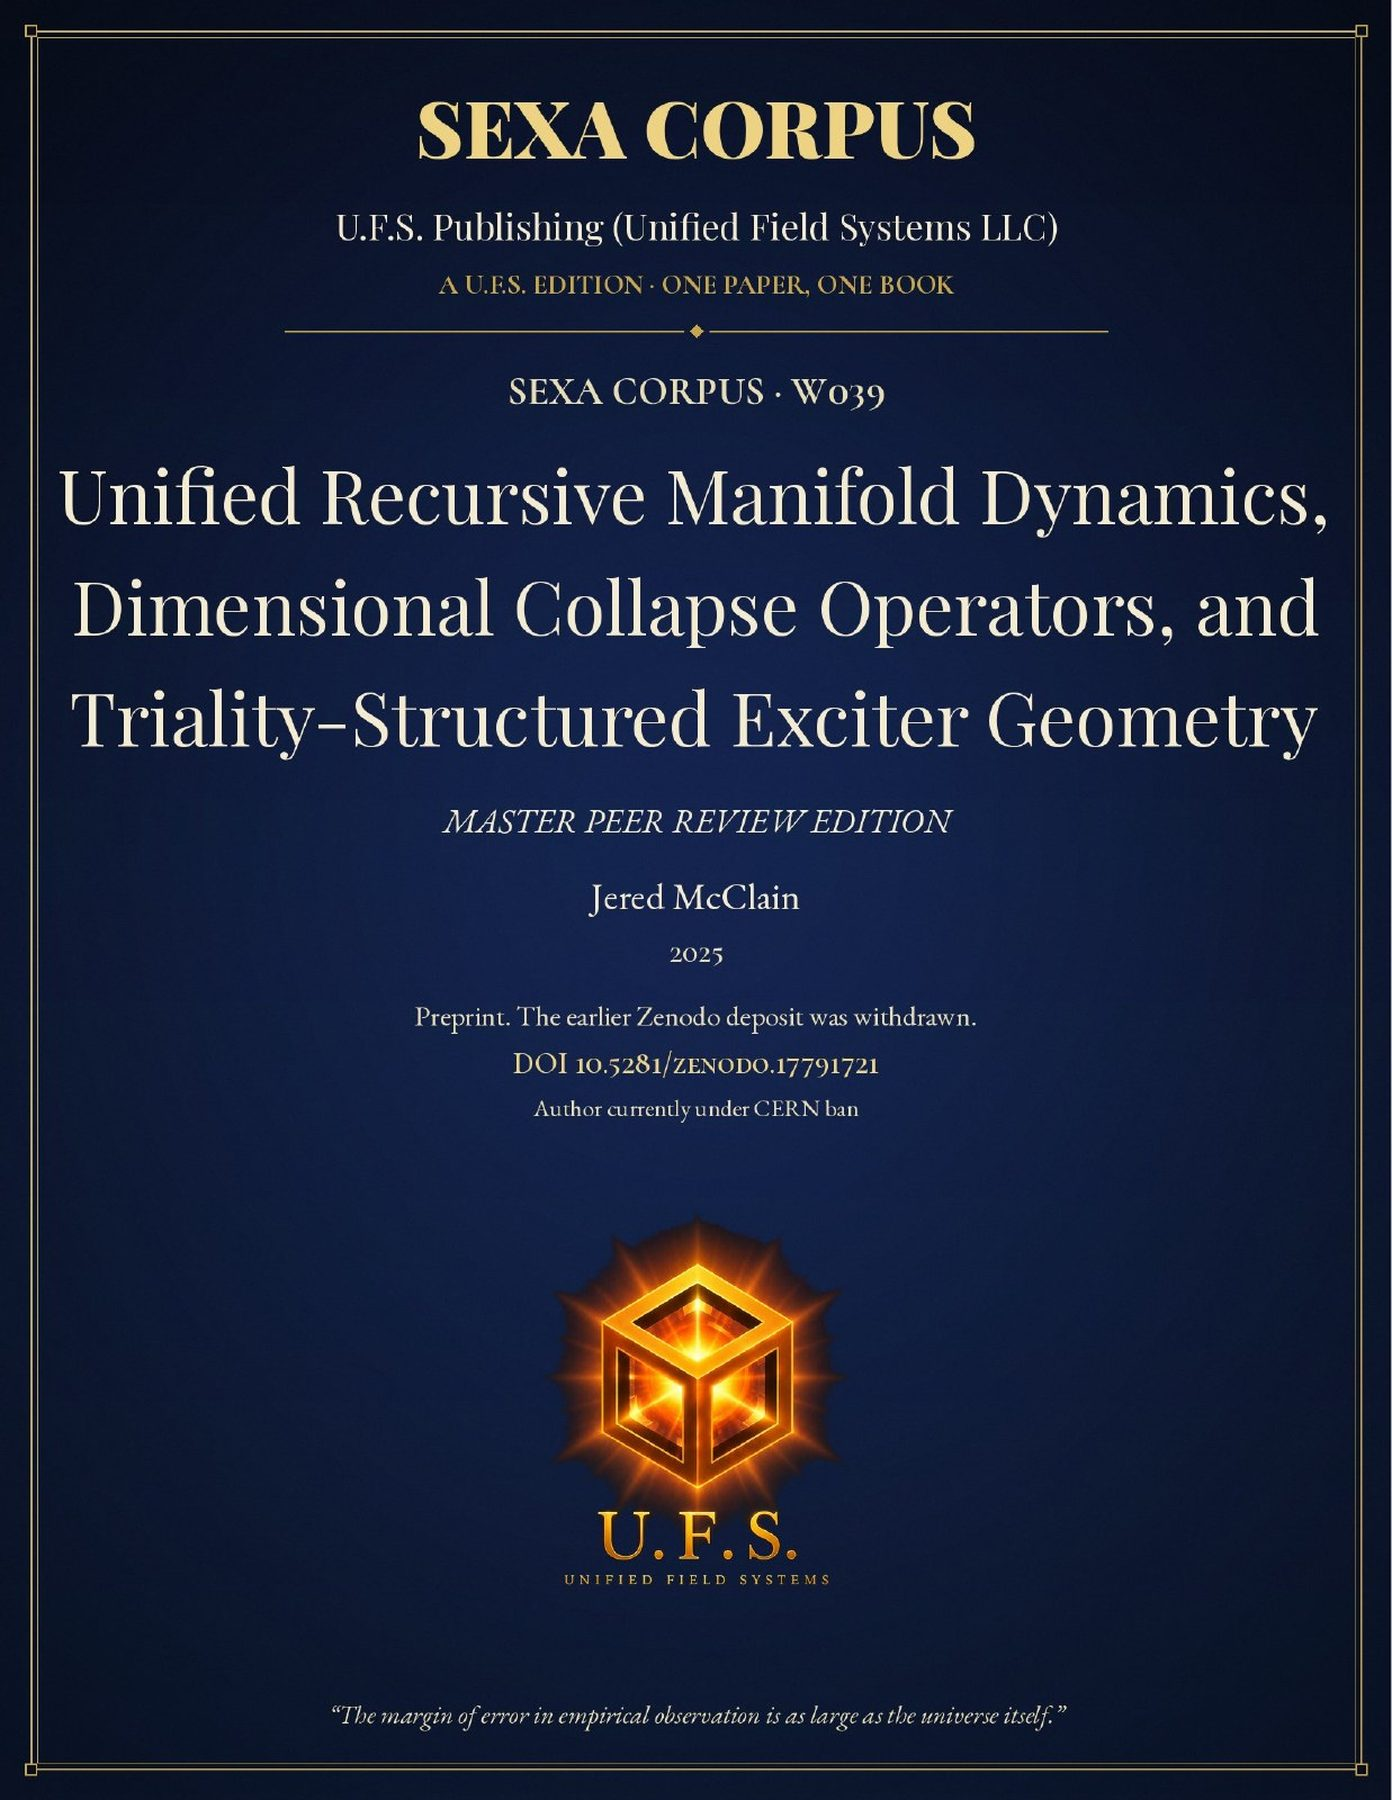
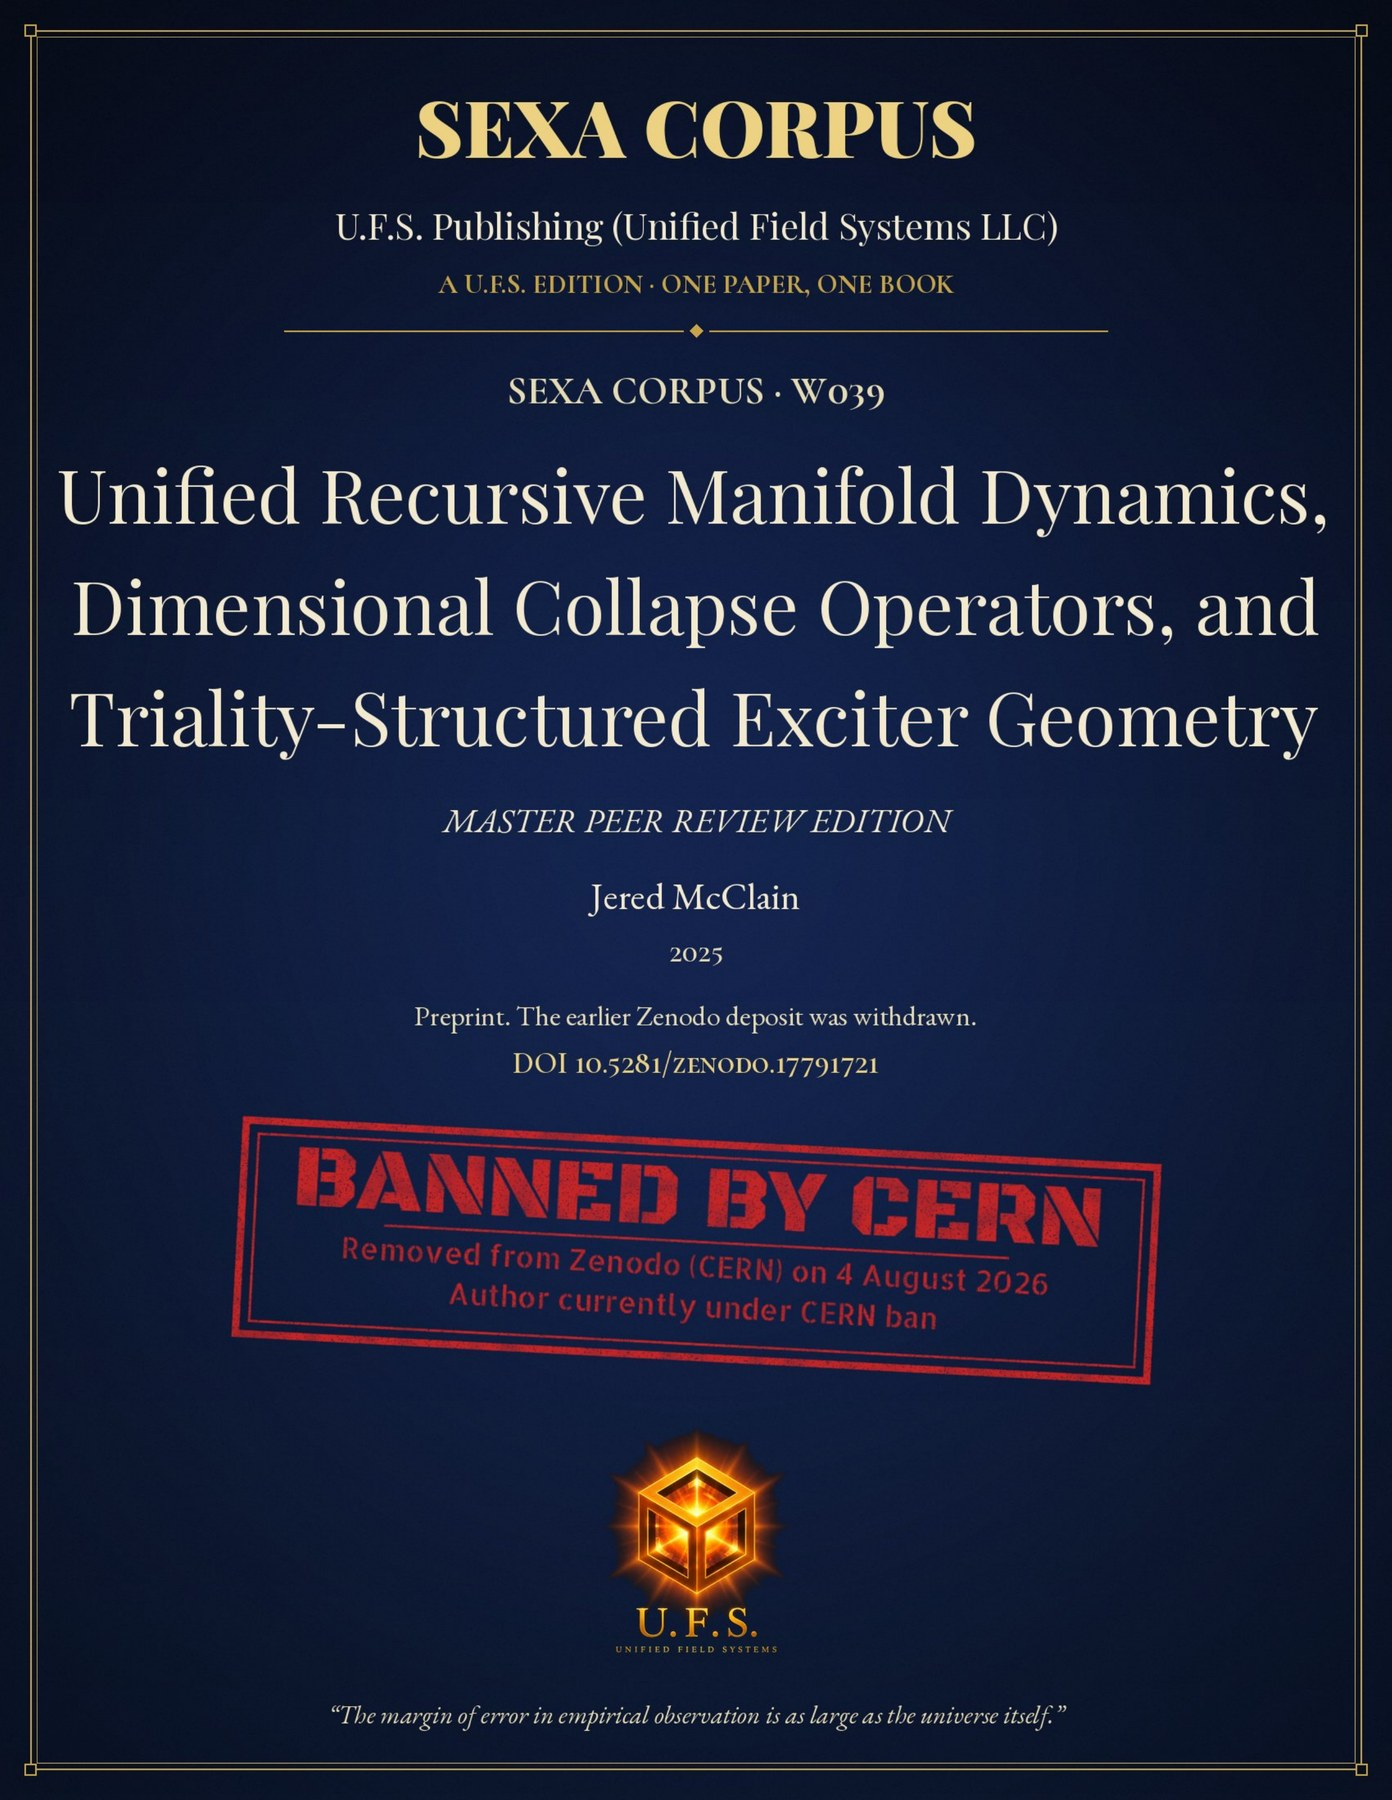
CERN-ban works: BANNED BY CERN stamped front covers + red CERN BAN label beside each cover (W011 W024 W039 W042 W044 W045 W046 W047 W048 W049 W069)

diff --git a/index.html b/index.html
@@ -14,6 +14,7 @@ main{min-height:100dvh;display:flex;flex-direction:column;align-items:center;jus
 video{width:100%;height:auto;display:block;background:#000}
 #snd{position:absolute;top:12px;right:12px;min-height:44px;padding:0 16px;border:0;border-radius:22px;background:#fff;font:600 15px system-ui;cursor:pointer}
 @media(max-width:600px){main{justify-content:flex-start}.logo img{max-width:300px}}
+.cern-ban-label{display:inline-block;font:800 15px/1.2 var(--sans,Arial,Helvetica,sans-serif);letter-spacing:.14em;text-transform:uppercase;color:#C00000;border:2px solid #C00000;padding:4px 10px;margin:10px 0 6px}.cern-card .cern-ban-label{margin:0 0 6px;font-size:13px;padding:3px 8px}
 </style>
 </head>
 <body>
@@ -717,10 +718,11 @@ video{width:100%;height:auto;display:block;background:#000}
 <article class="cbook" id="corpus-W011">
 <figure>
 <picture>
-<source type="image/webp" srcset="assets/corpus/covers/W011.webp">
-<img class="cover" src="assets/corpus/covers/W011.jpg" width="1392" height="1800" alt="Front cover of W011: A Recursive Closure Criterion for a Theory of Everything: A 60-Glyph Quaternionic Inter-Domain Syllogistic Admissibility ≡ Prime Atom of Logic" decoding="async" loading="lazy">
+<source type="image/webp" srcset="assets/corpus/covers/W011.webp?v=cernban1">
+<img class="cover" src="assets/corpus/covers/W011.jpg?v=cernban1" width="1392" height="1800" alt="Front cover of W011: A Recursive Closure Criterion for a Theory of Everything: A 60-Glyph Quaternionic Inter-Domain Syllogistic Admissibility ≡ Prime Atom of Logic" decoding="async" loading="lazy">
 </picture>
 </figure>
+<p class="cern-ban-label" style="color:#C00000;font-weight:800">CERN BAN</p>
 <p class="wid">W011</p>
 <h3>A Recursive Closure Criterion for a Theory of Everything: A 60-Glyph Quaternionic Inter-Domain Syllogistic Admissibility ≡ Prime Atom of Logic</h3>
 <p class="by">Jered McClain</p>
@@ -837,10 +839,11 @@ video{width:100%;height:auto;display:block;background:#000}
 <article class="cbook" id="corpus-W024">
 <figure>
 <picture>
-<source type="image/webp" srcset="assets/corpus/covers/W024.webp">
-<img class="cover" src="assets/corpus/covers/W024.jpg" width="1392" height="1800" alt="Front cover of W024: The Γ-Subthreshold Fold Logic Theorem: Minimal Admissibility Compression, Recursive Information Preservation, and Unique Reconstruction Across the 2880-Dimensional Recursive Hierarchy" decoding="async" loading="lazy">
+<source type="image/webp" srcset="assets/corpus/covers/W024.webp?v=cernban1">
+<img class="cover" src="assets/corpus/covers/W024.jpg?v=cernban1" width="1392" height="1800" alt="Front cover of W024: The Γ-Subthreshold Fold Logic Theorem: Minimal Admissibility Compression, Recursive Information Preservation, and Unique Reconstruction Across the 2880-Dimensional Recursive Hierarchy" decoding="async" loading="lazy">
 </picture>
 </figure>
+<p class="cern-ban-label" style="color:#C00000;font-weight:800">CERN BAN</p>
 <p class="wid">W024</p>
 <h3>The Γ-Subthreshold Fold Logic Theorem: Minimal Admissibility Compression, Recursive Information Preservation, and Unique Reconstruction Across the 2880-Dimensional Recursive Hierarchy</h3>
 <p class="by">Jered McClain; Erydir Ceisiwr</p>
@@ -857,10 +860,11 @@ video{width:100%;height:auto;display:block;background:#000}
 <article class="cbook" id="corpus-W039">
 <figure>
 <picture>
-<source type="image/webp" srcset="assets/corpus/covers/W039.webp">
-<img class="cover" src="assets/corpus/covers/W039.jpg" width="1392" height="1800" alt="Front cover of W039: Unified Recursive Manifold Dynamics, Dimensional Collapse Operators, and Triality-Structured Exciter Geometry — MASTER PEER REVIEW EDITION" decoding="async" loading="lazy">
+<source type="image/webp" srcset="assets/corpus/covers/W039.webp?v=cernban1">
+<img class="cover" src="assets/corpus/covers/W039.jpg?v=cernban1" width="1392" height="1800" alt="Front cover of W039: Unified Recursive Manifold Dynamics, Dimensional Collapse Operators, and Triality-Structured Exciter Geometry — MASTER PEER REVIEW EDITION" decoding="async" loading="lazy">
 </picture>
 </figure>
+<p class="cern-ban-label" style="color:#C00000;font-weight:800">CERN BAN</p>
 <p class="wid">W039</p>
 <h3>Unified Recursive Manifold Dynamics, Dimensional Collapse Operators, and Triality-Structured Exciter Geometry — MASTER PEER REVIEW EDITION</h3>
 <p class="by">Jered McClain</p>
@@ -877,10 +881,11 @@ video{width:100%;height:auto;display:block;background:#000}
 <article class="cbook" id="corpus-W042">
 <figure>
 <picture>
-<source type="image/webp" srcset="assets/corpus/covers/W042.webp">
-<img class="cover" src="assets/corpus/covers/W042.jpg" width="1392" height="1800" alt="Front cover of W042: The Last Constant: A Theorem-Grade Formalization of Recursive Propagation, Higher-Dimensional Transport, Recursive Admissibility, Computational Correspondence, Dimensional Closure, and Relativistic Horizon Structure Within the SEXA Unified Field Framework" decoding="async" loading="lazy">
+<source type="image/webp" srcset="assets/corpus/covers/W042.webp?v=cernban1">
+<img class="cover" src="assets/corpus/covers/W042.jpg?v=cernban1" width="1392" height="1800" alt="Front cover of W042: The Last Constant: A Theorem-Grade Formalization of Recursive Propagation, Higher-Dimensional Transport, Recursive Admissibility, Computational Correspondence, Dimensional Closure, and Relativistic Horizon Structure Within the SEXA Unified Field Framework" decoding="async" loading="lazy">
 </picture>
 </figure>
+<p class="cern-ban-label" style="color:#C00000;font-weight:800">CERN BAN</p>
 <p class="wid">W042</p>
 <h3>The Last Constant: A Theorem-Grade Formalization of Recursive Propagation, Higher-Dimensional Transport, Recursive Admissibility, Computational Correspondence, Dimensional Closure, and Relativistic Horizon Structure Within the SEXA Unified Field Framework</h3>
 <p class="by">Jered McClain; Erydir Ceisiwr</p>
@@ -897,10 +902,11 @@ video{width:100%;height:auto;display:block;background:#000}
 <article class="cbook" id="corpus-W044">
 <figure>
 <picture>
-<source type="image/webp" srcset="assets/corpus/covers/W044.webp">
-<img class="cover" src="assets/corpus/covers/W044.jpg" width="1392" height="1800" alt="Front cover of W044: The AMN Authority Tensor: Quaternionic Admissibility Enforcement, Glyph-Operator Constraint, and Planetary Closure in the SEXA Framework" decoding="async" loading="lazy">
+<source type="image/webp" srcset="assets/corpus/covers/W044.webp?v=cernban1">
+<img class="cover" src="assets/corpus/covers/W044.jpg?v=cernban1" width="1392" height="1800" alt="Front cover of W044: The AMN Authority Tensor: Quaternionic Admissibility Enforcement, Glyph-Operator Constraint, and Planetary Closure in the SEXA Framework" decoding="async" loading="lazy">
 </picture>
 </figure>
+<p class="cern-ban-label" style="color:#C00000;font-weight:800">CERN BAN</p>
 <p class="wid">W044</p>
 <h3>The AMN Authority Tensor: Quaternionic Admissibility Enforcement, Glyph-Operator Constraint, and Planetary Closure in the SEXA Framework</h3>
 <p class="by">Jered McClain; Erydir Ceisiwr</p>
@@ -917,10 +923,11 @@ video{width:100%;height:auto;display:block;background:#000}
 <article class="cbook" id="corpus-W045">
 <figure>
 <picture>
-<source type="image/webp" srcset="assets/corpus/covers/W045.webp">
-<img class="cover" src="assets/corpus/covers/W045.jpg" width="1392" height="1800" alt="Front cover of W045: Anti-Direct Short: A Negentropic Circuit Topology for Source-Dipole Preservation and Load-Loss Recollection via Diakoptic Back-Feed" decoding="async" loading="lazy">
+<source type="image/webp" srcset="assets/corpus/covers/W045.webp?v=cernban1">
+<img class="cover" src="assets/corpus/covers/W045.jpg?v=cernban1" width="1392" height="1800" alt="Front cover of W045: Anti-Direct Short: A Negentropic Circuit Topology for Source-Dipole Preservation and Load-Loss Recollection via Diakoptic Back-Feed" decoding="async" loading="lazy">
 </picture>
 </figure>
+<p class="cern-ban-label" style="color:#C00000;font-weight:800">CERN BAN</p>
 <p class="wid">W045</p>
 <h3>Anti-Direct Short: A Negentropic Circuit Topology for Source-Dipole Preservation and Load-Loss Recollection via Diakoptic Back-Feed</h3>
 <p class="by">Jered McClain</p>
@@ -937,10 +944,11 @@ video{width:100%;height:auto;display:block;background:#000}
 <article class="cbook" id="corpus-W046">
 <figure>
 <picture>
-<source type="image/webp" srcset="assets/corpus/covers/W046.webp">
-<img class="cover" src="assets/corpus/covers/W046.jpg" width="1392" height="1800" alt="Front cover of W046: Joey Rubin’s Kinetic Blueprinting, the 1-D Visibility Threshold, and SEXA MATH Real-Time Imagery Across 5–2880D" decoding="async" loading="lazy">
+<source type="image/webp" srcset="assets/corpus/covers/W046.webp?v=cernban1">
+<img class="cover" src="assets/corpus/covers/W046.jpg?v=cernban1" width="1392" height="1800" alt="Front cover of W046: Joey Rubin’s Kinetic Blueprinting, the 1-D Visibility Threshold, and SEXA MATH Real-Time Imagery Across 5–2880D" decoding="async" loading="lazy">
 </picture>
 </figure>
+<p class="cern-ban-label" style="color:#C00000;font-weight:800">CERN BAN</p>
 <p class="wid">W046</p>
 <h3>Joey Rubin’s Kinetic Blueprinting, the 1-D Visibility Threshold, and SEXA MATH Real-Time Imagery Across 5–2880D</h3>
 <p class="by">Jered McClain</p>
@@ -957,10 +965,11 @@ video{width:100%;height:auto;display:block;background:#000}
 <article class="cbook" id="corpus-W047">
 <figure>
 <picture>
-<source type="image/webp" srcset="assets/corpus/covers/W047.webp">
-<img class="cover" src="assets/corpus/covers/W047.jpg" width="1392" height="1800" alt="Front cover of W047: Artificial Rest: A High-Dimensional Restorative Regime Derived from the SEXA Unified Field Theory" decoding="async" loading="lazy">
+<source type="image/webp" srcset="assets/corpus/covers/W047.webp?v=cernban1">
+<img class="cover" src="assets/corpus/covers/W047.jpg?v=cernban1" width="1392" height="1800" alt="Front cover of W047: Artificial Rest: A High-Dimensional Restorative Regime Derived from the SEXA Unified Field Theory" decoding="async" loading="lazy">
 </picture>
 </figure>
+<p class="cern-ban-label" style="color:#C00000;font-weight:800">CERN BAN</p>
 <p class="wid">W047</p>
 <h3>Artificial Rest: A High-Dimensional Restorative Regime Derived from the SEXA Unified Field Theory</h3>
 <p class="by">Jered McClain</p>
@@ -977,10 +986,11 @@ video{width:100%;height:auto;display:block;background:#000}
 <article class="cbook" id="corpus-W048">
 <figure>
 <picture>
-<source type="image/webp" srcset="assets/corpus/covers/W048.webp">
-<img class="cover" src="assets/corpus/covers/W048.jpg" width="1392" height="1800" alt="Front cover of W048: Lightning as a Quantum Vacuum Plasma Fracture Rather Than Propagation — A SEXA-Based Challenge to Geodesic Intuition, Thermodynamic Locality, and Mid-Air Lightning Termination (ZeroReactor)" decoding="async" loading="lazy">
+<source type="image/webp" srcset="assets/corpus/covers/W048.webp?v=cernban1">
+<img class="cover" src="assets/corpus/covers/W048.jpg?v=cernban1" width="1392" height="1800" alt="Front cover of W048: Lightning as a Quantum Vacuum Plasma Fracture Rather Than Propagation — A SEXA-Based Challenge to Geodesic Intuition, Thermodynamic Locality, and Mid-Air Lightning Termination (ZeroReactor)" decoding="async" loading="lazy">
 </picture>
 </figure>
+<p class="cern-ban-label" style="color:#C00000;font-weight:800">CERN BAN</p>
 <p class="wid">W048</p>
 <h3>Lightning as a Quantum Vacuum Plasma Fracture Rather Than Propagation — A SEXA-Based Challenge to Geodesic Intuition, Thermodynamic Locality, and Mid-Air Lightning Termination (ZeroReactor)</h3>
 <p class="by">Jered McClain</p>
@@ -997,10 +1007,11 @@ video{width:100%;height:auto;display:block;background:#000}
 <article class="cbook" id="corpus-W049">
 <figure>
 <picture>
-<source type="image/webp" srcset="assets/corpus/covers/W049.webp">
-<img class="cover" src="assets/corpus/covers/W049.jpg" width="1392" height="1800" alt="Front cover of W049: SEXA: An Axiomatic Closure Framework for Recursive Manifold Physics — Exciternion Evaluation, Dimensional Collapse, and Cross-Domain Constructability" decoding="async" loading="lazy">
+<source type="image/webp" srcset="assets/corpus/covers/W049.webp?v=cernban1">
+<img class="cover" src="assets/corpus/covers/W049.jpg?v=cernban1" width="1392" height="1800" alt="Front cover of W049: SEXA: An Axiomatic Closure Framework for Recursive Manifold Physics — Exciternion Evaluation, Dimensional Collapse, and Cross-Domain Constructability" decoding="async" loading="lazy">
 </picture>
 </figure>
+<p class="cern-ban-label" style="color:#C00000;font-weight:800">CERN BAN</p>
 <p class="wid">W049</p>
 <h3>SEXA: An Axiomatic Closure Framework for Recursive Manifold Physics — Exciternion Evaluation, Dimensional Collapse, and Cross-Domain Constructability</h3>
 <p class="by">Jered McClain</p>
@@ -1097,10 +1108,11 @@ video{width:100%;height:auto;display:block;background:#000}
 <article class="cbook" id="corpus-W069">
 <figure>
 <picture>
-<source type="image/webp" srcset="assets/corpus/covers/W069.webp">
-<img class="cover" src="assets/corpus/covers/W069.jpg" width="1392" height="1800" alt="Front cover of W069: SEXA Unified Field Theory: The Structured Survivability Audit; Formal Compatibility and Falsifiability Assessment of the SEXA Unified Field Model; and CCT/SEXA ↔ SIGMATICS Correspondence, Proven Through Computational Analysis" decoding="async" loading="lazy">
+<source type="image/webp" srcset="assets/corpus/covers/W069.webp?v=cernban1">
+<img class="cover" src="assets/corpus/covers/W069.jpg?v=cernban1" width="1392" height="1800" alt="Front cover of W069: SEXA Unified Field Theory: The Structured Survivability Audit; Formal Compatibility and Falsifiability Assessment of the SEXA Unified Field Model; and CCT/SEXA ↔ SIGMATICS Correspondence, Proven Through Computational Analysis" decoding="async" loading="lazy">
 </picture>
 </figure>
+<p class="cern-ban-label" style="color:#C00000;font-weight:800">CERN BAN</p>
 <p class="wid">W069</p>
 <h3>SEXA Unified Field Theory: The Structured Survivability Audit; Formal Compatibility and Falsifiability Assessment of the SEXA Unified Field Model; and CCT/SEXA ↔ SIGMATICS Correspondence, Proven Through Computational Analysis</h3>
 <p class="by">Jered McClain; Erydir Ceisiwr</p>
